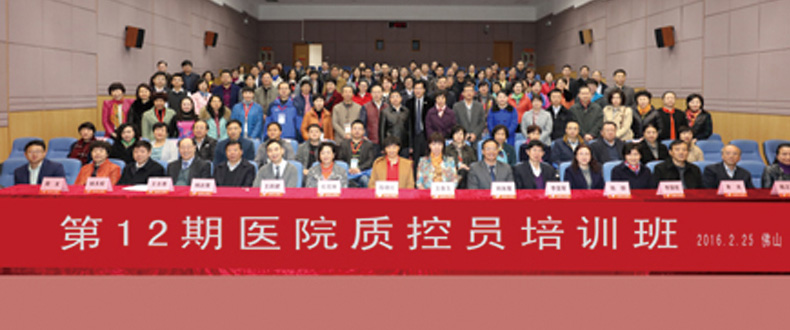
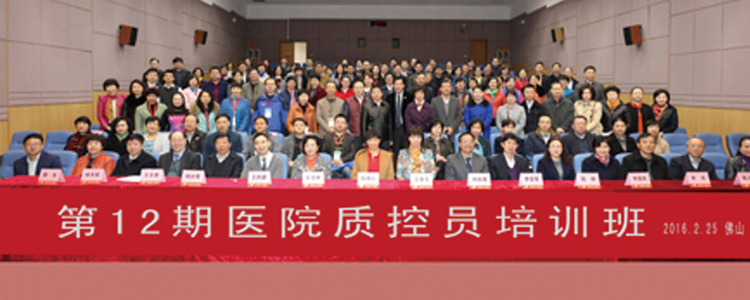
修改图片的宽高问题

diff --git a/index.html b/index.html
@@ -123,19 +123,19 @@
       <!-- Wrapper for slides -->
       <div class="carousel-inner" role="listbox">
         <div class="item active">
-          <img src="imgBanner/banner01.jpg" alt="...">
+          <img width="100%" src="imgBanner/banner01.jpg" alt="...">
           <div class="carousel-caption u-banner-titbg">
             <p>我院举行突发公共事件演练，确保春节期间医疗保障工作</p>
           </div>
         </div>
         <div class="item">
-          <img src="imgBanner/banner01.jpg" alt="...">
+          <img width="100%" src="imgBanner/banner02.jpg" alt="...">
           <div class="carousel-caption u-banner-titbg">
             <p>“我们的节日—春节”院领导与保安员包饺子共庆新春</p>
           </div>
         </div>
         <div class="item">
-          <img src="imgBanner/banner01.jpg" alt="...">
+          <img width="100%" src="imgBanner/banner01.jpg" alt="...">
           <div class="carousel-caption u-banner-titbg">
             <p>国家卫计委医院管理研究所“第十二期医院质控员培训”在我院召开</p>
           </div>
@@ -157,20 +157,40 @@
         <h4 class="u-column-tit"><span>科室动态</span><a class="pull-right" href="">MORE</a></h4>
         <div class="u-article-imglist">
           <ul>
-            <li>
-              <img class="pull-left" src="imgBanner/articlelist01.jpg" alt="">
-              <a href="">神内专家谢淑萍：用心看病就是成就自我</a>
-              <p class="">[2016-03-02]</p>
+            <li class="clearfix">
+              <img width="30%" class="pull-left" src="imgBanner/banner01.jpg" alt="">
+              <div class="pull-right" style="width:70%;overflow: hidden;">
+                <a href="">神内专家谢淑萍：用心看病就是成就自我</a>
+                <p class="">[2016-03-02]</p>
+              </div>
             </li>
-            <li>
-              <img class="pull-left" src="imgBanner/articlelist01.jpg" alt="">
-              <a href="">我院首次证实丁苯酞对皮质下非痴呆性血</a>
-              <p class="">[2016-03-02]</p>
+            <li class="clearfix">
+              <img width="30%" class="pull-left" src="imgBanner/banner01.jpg" alt="">
+              <div class="pull-right" style="width:70%;overflow: hidden;">
+                <a href="">神内专家谢淑萍：用心看病就是成就自我</a>
+                <p class="">[2016-03-02]</p>
+              </div>
             </li>
-            <li>
-              <img class="pull-left" src="imgBanner/articlelist01.jpg" alt="">
-              <a href="">神经内科 CYP2C19 基因指导缺血性脑卒</a>
-              <p class="">[2016-03-02]</p>
+            <li class="clearfix">
+              <img width="30%" class="pull-left" src="imgBanner/banner01.jpg" alt="">
+              <div class="pull-right" style="width:70%;overflow: hidden;">
+                <a href="">神内专家谢淑萍：用心看病就是成就自我</a>
+                <p class="">[2016-03-02]</p>
+              </div>
+            </li>
+            <li class="clearfix">
+              <img width="30%" class="pull-left" src="imgBanner/banner01.jpg" alt="">
+              <div class="pull-right" style="width:70%;overflow: hidden;">
+                <a href="">神内专家谢淑萍：用心看病就是成就自我</a>
+                <p class="">[2016-03-02]</p>
+              </div>
+            </li>
+            <li class="clearfix">
+              <img width="30%" class="pull-left" src="imgBanner/banner01.jpg" alt="">
+              <div class="pull-right" style="width:70%;overflow: hidden;">
+                <a href="">神内专家谢淑萍：用心看病就是成就自我</a>
+                <p class="">[2016-03-02]</p>
+              </div>
             </li>
           </ul>
         </div>

diff --git a/expertInfo.html b/expertInfo.html
@@ -122,6 +122,14 @@
 <div class="container">
   <div class="row">
     <div class="col-md-4">
+      <div class="u-column-box clearfix">
+        <h4 class="u-column-tit"><span>搜索医生</span></h4>
+        <form class="navbar-form navbar-left " role="search" style="    padding-left: 0;">
+          <div class="form-group">
+            <input type="text" class="form-control" placeholder="输入医生名字"></div>
+          <button type="submit" class="btn btn-default u-search-btn">搜索</button>
+        </form>
+      </div>
       <div class="u-column-box">
         <h4 class="u-column-tit"><span>健康教育</span><a class="pull-right" href="">MORE</a></h4>
         <div class="u-article-list">

diff --git a/expertList.html b/expertList.html
@@ -234,6 +234,14 @@
       </div>
     </div>
     <div class="col-md-4">
+      <div class="u-column-box clearfix">
+        <h4 class="u-column-tit"><span>搜索医生</span></h4>
+        <form class="navbar-form navbar-left " role="search" style="    padding-left: 0;">
+          <div class="form-group">
+            <input type="text" class="form-control" placeholder="输入医生名字"></div>
+          <button type="submit" class="btn btn-default u-search-btn">搜索</button>
+        </form>
+      </div>
       <div class="u-column-box">
         <h4 class="u-column-tit"><span>健康教育</span><a class="pull-right" href="">MORE</a></h4>
         <div class="u-article-list">

diff --git a/css/mian.css b/css/mian.css
@@ -137,22 +137,33 @@ background-color: #2675bc;
 
 }
 .u-article-imglist ul{
-  padding:5px 0;
+    padding: 0;
+    margin-bottom: 0;
 }
 .u-article-imglist img{
   padding-right: 10px;
 }
 .u-article-imglist li{
   padding: 5px 0;
+  list-style-type: none;
 }
 .u-article-imglist li a{
   color: #5e6b73;
+  overflow: hidden;
+  text-overflow: ellipsis;
+  -o-text-overflow: ellipsis;
+  white-space: nowrap;
+  text-decoration: none;
+  max-width: 100%;
+  min-width: 200px;
+  display:block;
 }
 .u-article-imglist li a:hover{
   color: #d59f2a;
 }
 .u-article-imglist li p{
   color: #a6a6a6;
+  margin-bottom: 0;
 }
 .u-article-list{
 
